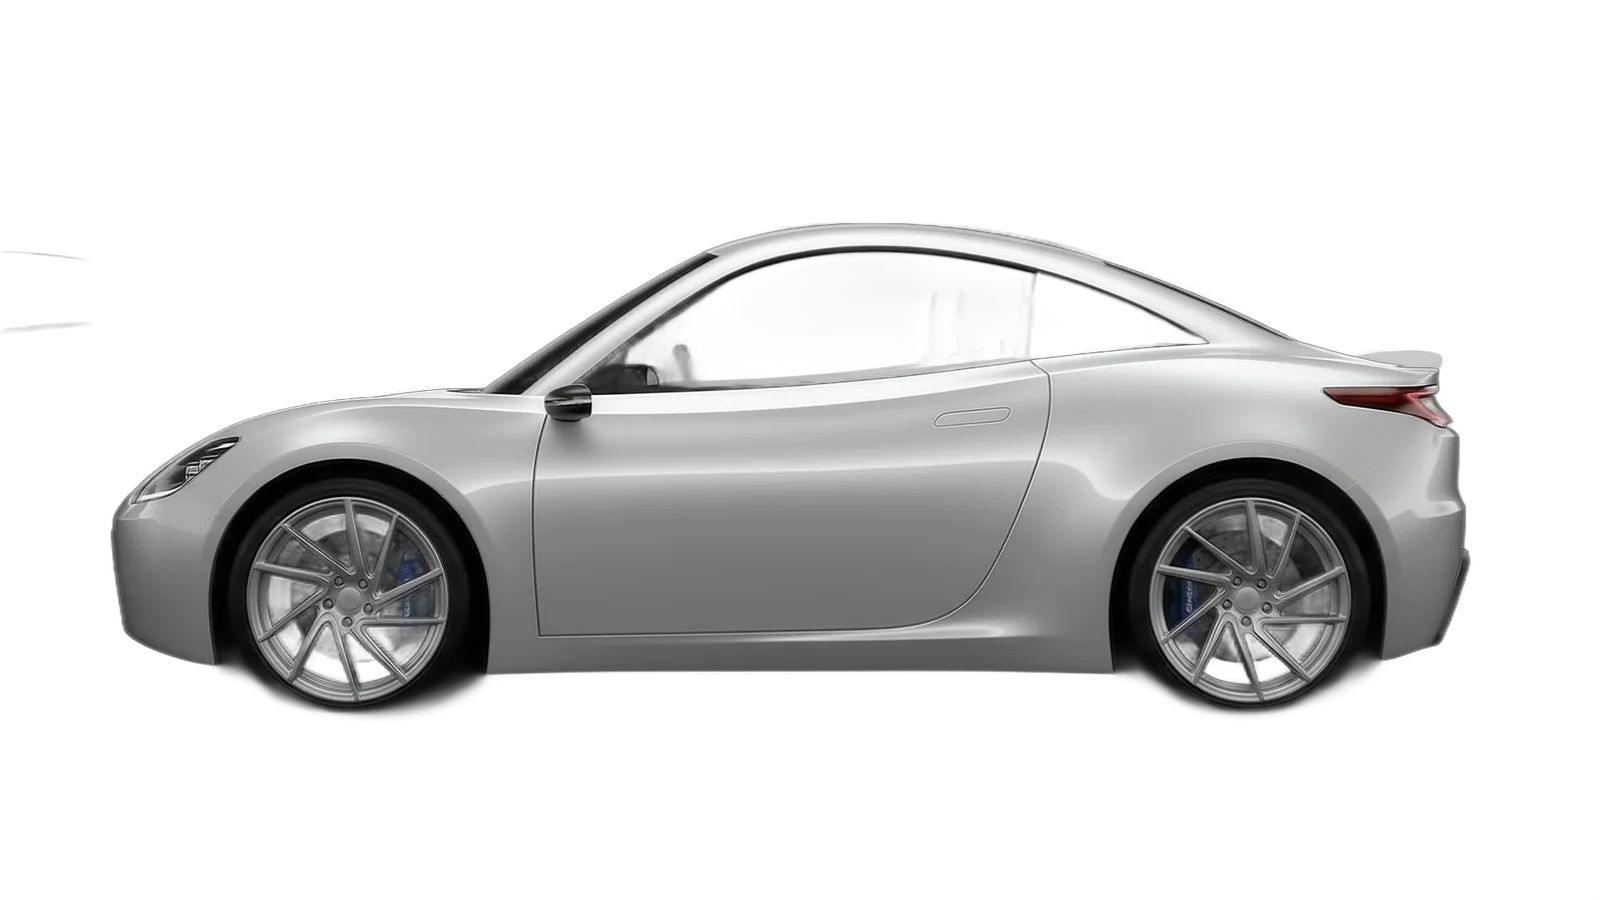
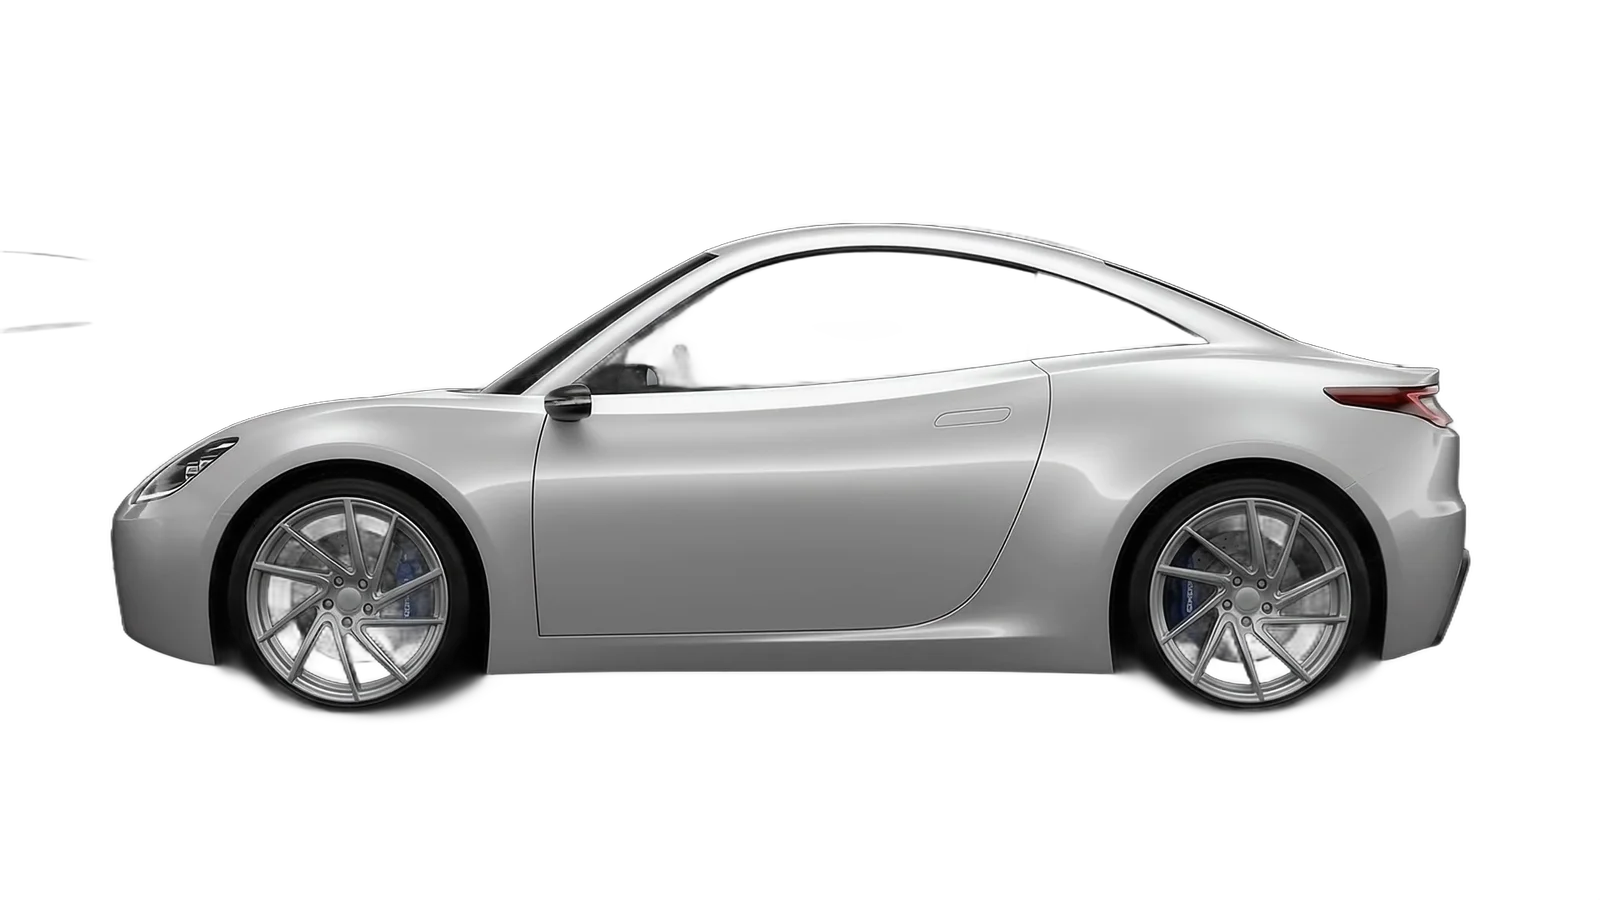
Hero: start on the last clean frame before the second door enters
The crossfade into the settled final car still borrowed a frame where the
second door was entering, leaving a faint ghost door. Drop the crossfade
and the spoiler frames entirely and open on the finished car as it stands
before that second fly-in. 145 frames.

diff --git a/src/pages/Home.tsx b/src/pages/Home.tsx
@@ -38,7 +38,7 @@ export function Home() {
       <section className="hero" ref={heroRef}>
         <HeroDisassembly
           framesFolder="ev-assembly-v3"
-          frameCount={148}
+          frameCount={145}
           triggerRef={heroRef}
           revealRef={heroActionsRef}
         />
